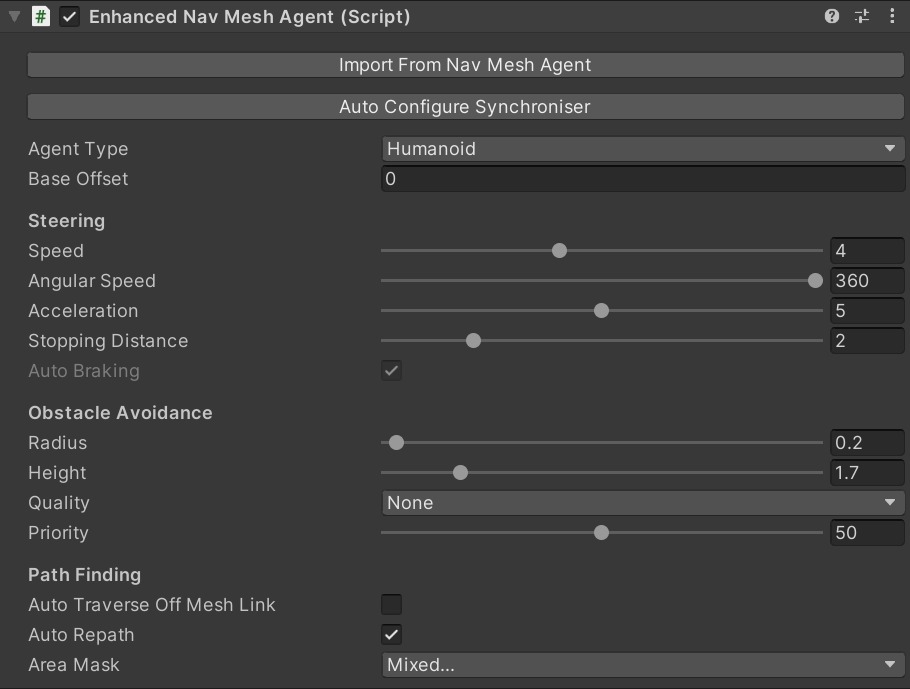
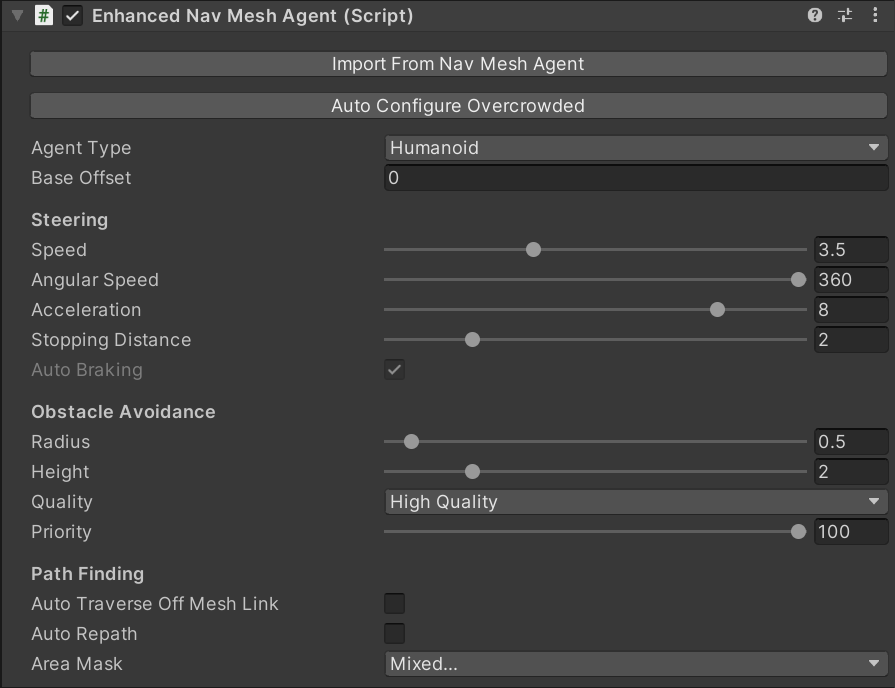
Retaken screenshot and replaced text on button

diff --git a/docs/Reference/MonoBehaviours/EnhancedNavMeshAgent.md b/docs/Reference/MonoBehaviours/EnhancedNavMeshAgent.md
@@ -8,9 +8,7 @@ To migrate a GameObject from a `NavMeshAgent` to an `EnhancedNavMeshAgent` simpl
 
 Once the `EnhancedNavMeshAgent` MonoBehaviour has been added click `Import From Nav Mesh Agent` to automatically copy all of the settings from the `Nav Mesh Agent` MonoBehaviour. This will disable the `Nav Mesh Agent` MonoBehaviour once it is complete.
 
-Finally click `Auto Configure Crowds` to automatically configure some default settings on the Overcrowded MonoBehaviours.
-
-//todo change that button to `Auto Configure Overcrowded`
+Finally click `Auto Configure Overcrowded` to automatically configure some default settings on the Overcrowded MonoBehaviours.
 
 ## Differences
 
@@ -34,8 +32,7 @@ The `Enhanced Nav Mesh Agent` is not identical to the `Nav Mesh Agent`. The foll
 
 Automatically copies settings from a Unity `NavMeshAgent` MonoBehaviour to this `EnhancedNavmeshAgent` and disables the `NavMeshAgent`.
 
-#### Auto Configure Crowds
-^^ todo: change title once button is changed to `Auto Configure Overcrowded`
+#### Auto Configure Overcrowded
 
 Automatically configures Overcrowded MonoBehaviours to act in a similar way to the Unity `NavMeshAgent`.
 
